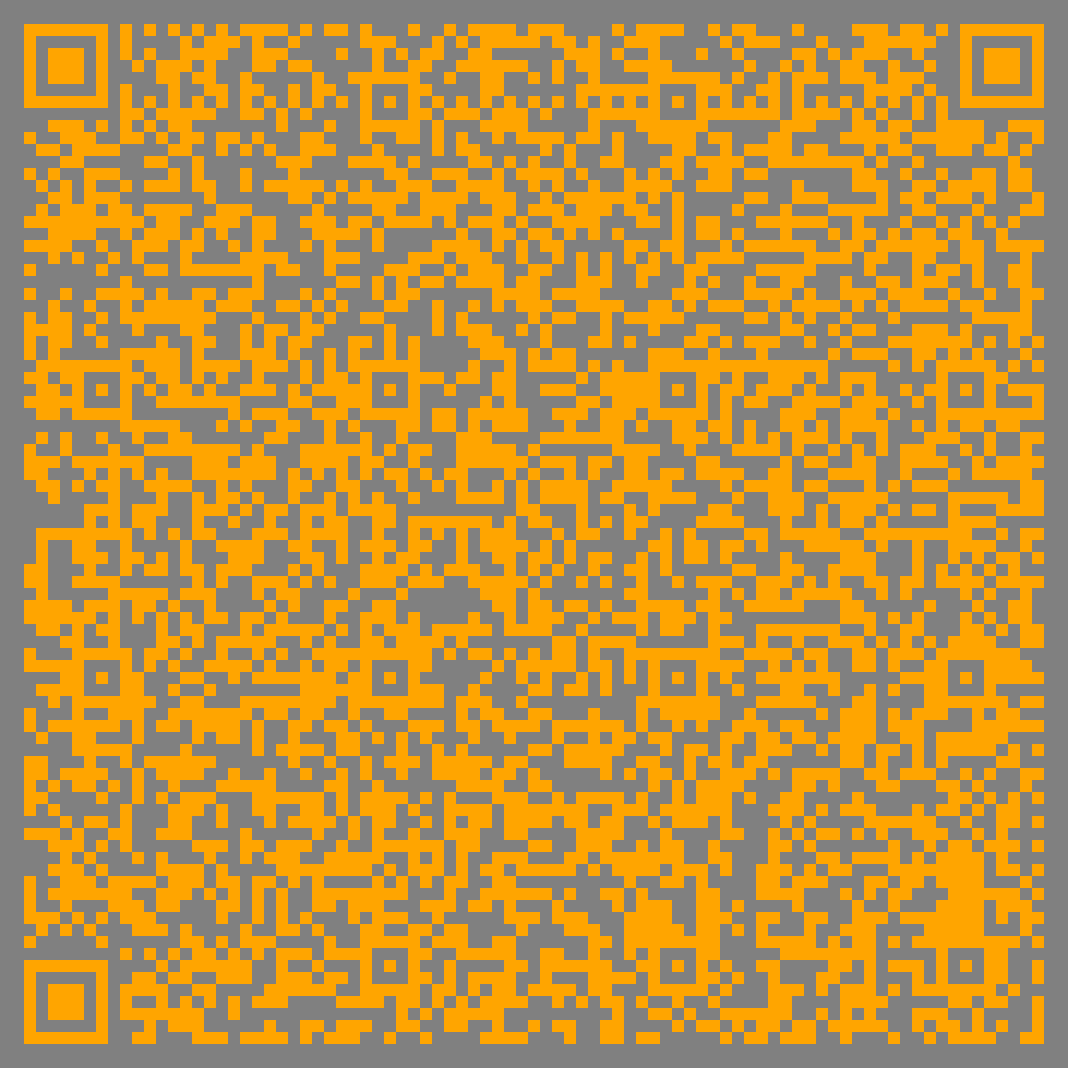
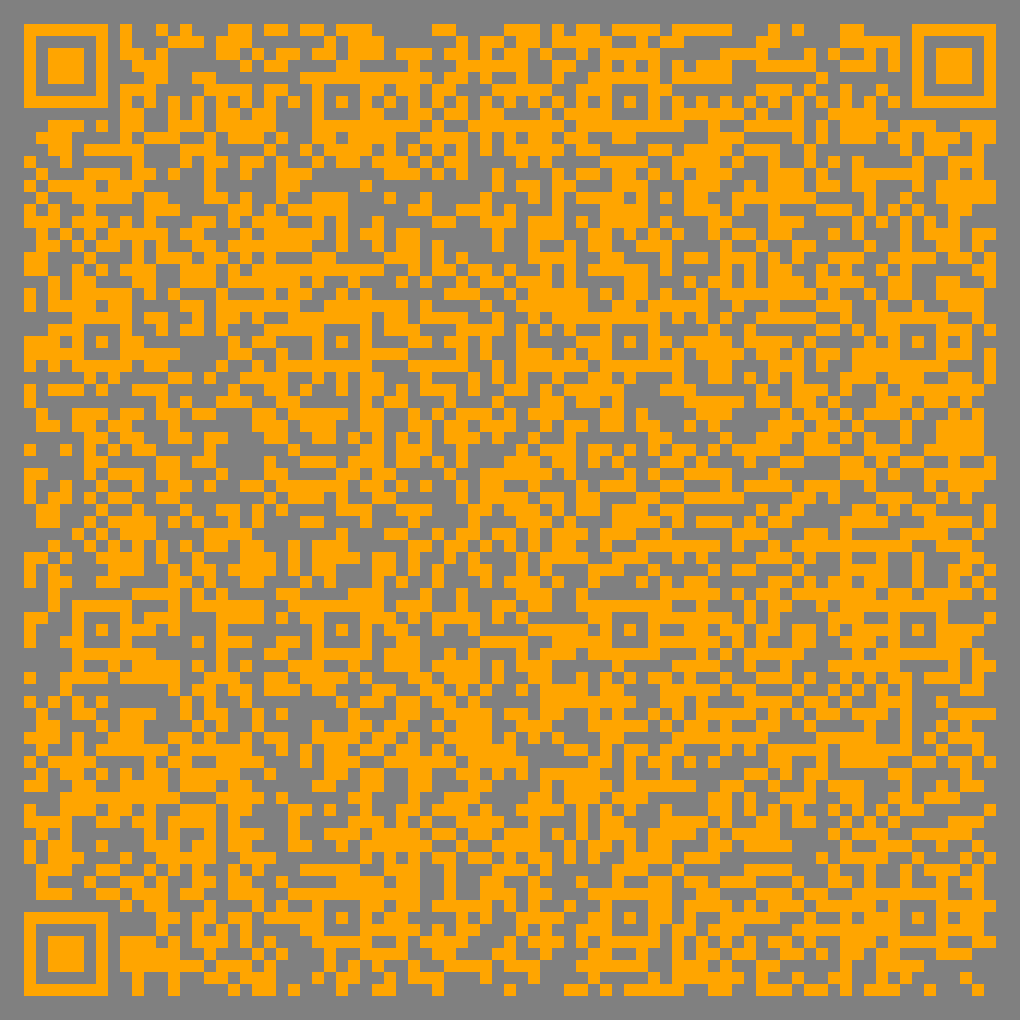
new interface

diff --git a/order_system.py b/order_system.py
@@ -1,6 +1,8 @@
 import gradio as gr
 import pandas as pd
 import numpy as np
+import hashlib
+
 from networkx import  qr_confirm, extract_location_coordinates, check_coordinates
 
 #Ge the delivery database:
@@ -16,7 +18,46 @@ deliveries_df = deliveries_df.rename(columns={
 })
 
 
+def owner_check(order_id, owner_code):
+    """
+    Validates if the provided owner_code matches the expected code for the given order_id.
 
+    Parameters:
+    order_id (str): The ID of the order to check
+    owner_code (str): The code provided by the user claiming ownership
+
+    Returns:
+    str: Status message indicating whether delivery is authorized
+    """
+    # Define database file path
+    DBFILE = "DataDelivery.csv"
+
+    try:
+        # Read the CSV file
+        df = pd.read_csv(DBFILE)
+
+        # Find the order in the database
+        order_data = df[df['Order_ID'] == order_id]
+
+        # Check if order exists
+        if order_data.empty:
+            return "Error: Order not found"
+
+        # Get client phone number from the order
+        client_phone = order_data.iloc[0]['Client_Phone']
+
+        # Generate expected owner code by hashing the phone number
+        # This assumes owner_code is a hash or function of the phone number
+        expected_code = hashlib.md5(str(client_phone).encode()).hexdigest()[:8]
+
+        # Validate the owner code
+        if owner_code == expected_code:
+            return "Delivery Authorized: Owner verified"
+        else:
+            return "Error: Invalid owner code"
+
+    except Exception as e:
+        return f"System Error: {str(e)}"
 
 
 # Update the delivery data base by user:
@@ -87,24 +128,33 @@ def deliver(order_id):
     # Check if the currier is at the location
     status=courier_in_location(phone_number_courier,location)
     print(f"---{status=}")
-    updated_status = "Courier in location!"
+    if status and current_status in ["On the way"] :
+        updated_status = "Courier in location!"
+    else:
+        if current_status not in ["Delivered"]:
+            updated_status = "On the way"
+        else:
+            updated_status=status
 
 
     # Update the status in the CSV file
     df.loc[df['OrderID'] == order_id, 'Status'] = updated_status
+    #df.loc[df['OrderID'] == order_id, 'Status_History'] += f";{updated_status} "
     df.to_csv(DBFILE, index=False)
 
     # Generate QR code using the external function (not implemented here)
     location= df.loc[df['OrderID'] == order_id, 'Location'].values[0]
     qr_code = qr_confirm(client_phone,location )
+    delivery_status_history=None
 
-    return location, client_phone, updated_status, qr_code
+
+    return location, client_phone, updated_status, qr_code,  delivery_status_history
 
 
 
 # Define the Gradio interface
 with gr.Blocks(title="Order Management System") as app:
-    gr.Markdown("# Order Management System")
+    gr.Markdown("# Chek Point")
 
     with gr.Tabs():
         # First Tab - Order Management
@@ -124,13 +174,22 @@ with gr.Blocks(title="Order Management System") as app:
                 phone_number_client = gr.Textbox(label="Phone Number Client:",placeholder="Phone Number")
                 delivery_status = gr.Textbox(placeholder="InProcess", label="Status")
                 deliver_button = gr.Button("Deliver")
+                
+                owner_code = gr.Textbox(placeholder="Owner code:", label="Code")
+                deliver_check_button = gr.Button("Check  Code!")
+
                 checkQR =gr.Image(
                 label="Scan QR Code",
                 type="numpy",)
+                # delivery_status_history = gr.Textbox(placeholder="InProcess", label="Status history")
 
-
-            deliver_button.click(fn=deliver, inputs=[order_id], outputs=[order_location, phone_number_client, delivery_status, checkQR])
+            deliver_button.click(fn=deliver, inputs=[order_id], outputs=[order_location, phone_number_client, delivery_status, checkQR, ])
             get_delivery_list.click(fn=filter_by_courier, inputs=[phone_number_courier], outputs=[deliveries_table])
+
+
+            deliver_check_button.click(fn=owner_check, inputs=[order_id, owner_code], outputs=[delivery_status])
+
+
 
 
         # Second Tab - Delivery Confirmation
@@ -169,4 +228,4 @@ with gr.Blocks(title="Order Management System") as app:
             pass
 
 if __name__ == "__main__":
-    app.launch()
+    app.launch(share=True)

diff --git a/networkx/chek_phone_number.py b/networkx/chek_phone_number.py
@@ -1,4 +1,5 @@
 import requests
+import urllib.parse
 
 APIK="3aa9d376cfmsh16446717213dd03p1e3dfdjsn0c3cc2207d6f"
 
@@ -37,7 +38,7 @@ def get_confirm_link(
         login_hint,
         redirect_uri,
         response_type="code",
-        scope="number-verification:verify",
+        scope="dpv:FraudPreventionAndDetection%23number-verifcation-verify-read",
         state="c3VwZXItc2VjcmV0"
 ):
     """
@@ -59,7 +60,12 @@ def get_confirm_link(
         str: The full authorization URL that should be presented to the user
     """
     # Create the direct URL that will initiate the Nokia authorization flow
-    auth_link = f"{authorization_endpoint}?scope={scope}&state={state}&response_type={response_type}&client_id={client_id}&redirect_uri={redirect_uri}&login_hint={login_hint}"
+
+    encoded_login_hint = urllib.parse.quote(login_hint)
+    state = encoded_login_hint
+
+    # Create the direct URL that will initiate the Nokia authorization flow
+    auth_link = f"{authorization_endpoint}?scope={scope}&state={state}&response_type={response_type}&client_id={client_id}&redirect_uri={redirect_uri}&login_hint={encoded_login_hint}"
 
     return auth_link
 
@@ -124,14 +130,14 @@ def main():
                                         login_hint,
                                         redirect_uri,
                                         response_type="code",
-                                        scope="number-verification:verify",
-                                        state="c3VwZXItc2VjcmV0"
+
                                 )
 
 
 
+        print("authorization link: {}".format(auth_link))
 
-        auth_code = input("Enter the received authorization code from the redirect URL: ")
+        auth_code = input("Enter the received authorization code from the redirect URL: ", )
 
         if auth_code:
             access_token = get_access_token(client_id, client_secret, auth_code)

diff --git a/owner.py b/owner.py
@@ -1,0 +1,26 @@
+from fastapi import FastAPI
+from fastapi.responses import RedirectResponse
+import uvicorn
+from pyngrok import ngrok
+
+app = FastAPI()
+
+@app.get("/")
+def home():
+    return {"message": "Welcome to the API"}
+
+@app.get("/redirect")
+def redirect_order_complete():
+    return RedirectResponse(url="/order-complete")
+
+@app.get("/order-complete")
+def order_complete():
+    return {"message": "Order completed successfully!"}
+
+if __name__ == "__main__":
+    # Open an ngrok tunnel to the port your FastAPI app runs on
+    public_url = ngrok.connect(8000).public_url
+    print(f"Public URL: {public_url}")
+
+    # Run FastAPI app
+    uvicorn.run(app, host="0.0.0.0", port=8000)
